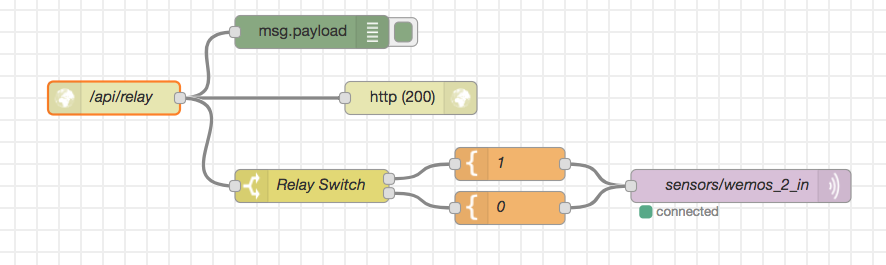
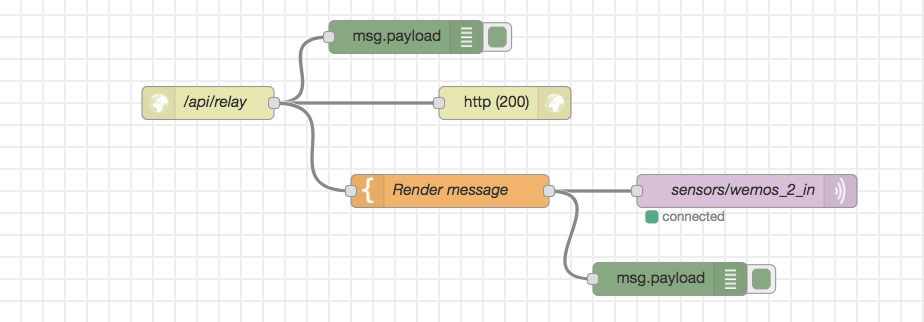
ADD flows details

Changed region(s): [[0.0305, 0.0302, 0.9752, 0.9358]]

diff --git a/BigeekieIOT.md b/BigeekieIOT.md
@@ -42,29 +42,19 @@
 
 - Flows
 
-  - Escuchar MQTT:
-![FlowsEvol/Node-RED1.png](FlowsEvol/Node-RED1.png)
-  - Generar Dashboard:
-![FlowsEvol/Node-RED2.png](FlowsEvol/Node-RED2.png)
-  - Poner un botón en el dashboard:
-![FlowsEvol/Node-RED3.png](FlowsEvol/Node-RED3.png)
-  - Capturar medidas de los sensores y guardarlas en InfluxDb:
-![FlowsEvol/Node-RED4.png](FlowsEvol/Node-RED4.png)
-  - Averiguar el chatId de tu conversación con el bot de telegram:
-![FlowsEvol/Node-RED6.png](FlowsEvol/Node-RED6.png)
-  - Configuración del bot de telegram:
-![FlowsEvol/Node-RED7.png](FlowsEvol/Node-RED7.png)
-  - Preguntar al bot por las últimas medidas:
-![FlowsEvol/Node-RED8.png](FlowsEvol/Node-RED8.png)
-  - Enlazar el botón del dashboard con el bot:
-![FlowsEvol/Node-RED9.png](FlowsEvol/Node-RED9.png)
-  - Añadir botón de AWS IoT:
-![FlowsEvol/Node-RED10.png](FlowsEvol/Node-RED10.png)
-  - Activar y desactivar la TupperLamp:
-![FlowsEvol/Node-RED11.png](FlowsEvol/Node-RED11.png)
-  - Activar relé en base a alarmas de Kapacitor:
-![FlowsEvol/Node-RED12.png](FlowsEvol/Node-RED12.png)
-  - Enviar notificación del cambio a Telegram:
+  - [Escuchar MQTT](Flows/Flow1.md)
+  - [Generar Dashboard](Flows/Flow2.md)
+  - [Poner un botón en el dashboard](Flows/Flow3.md)
+  - [Capturar medidas de los sensores y guardarlas en InfluxDb](Flows/Flow4.md)
+  - [Averiguar el chatId de tu conversación con el bot de telegram](Flows/Flow5.md)
+  - [Configuración del bot de telegram](Flows/Flow6.md)
+  - [Preguntar al bot por las últimas medidas](Flows/Flow7.md)
+  - [Enlazar el botón del dashboard con el bot](Flows/Flow8.md)
+  - [Añadir botón de AWS IoT](Flows/Flow9.md)
+  - [Activar y desactivar la TupperLamp](Flows/Flow10.md)
+  - [Activar relé en base a alarmas de Kapacitor](Flows/Flow11.md)
+  - [Enviar notificación del cambio a Telegram](Flows/Flow12.md)
+
 ![FlowsEvol/Node-RED12.png](FlowsEvol/Node-RED12.png)
 
 
@@ -78,17 +68,17 @@
 - Ejemplo alertas Kapacitor:
   - Temp alert:
     - Threshold
-    - Seleccionar base de datos y medida
+    - Seleccionar base de datos y medida, 0 functions
     - temp, less than 16
     - add handler: Telegram con bot token y chatId
     - Message: {{ if eq .Level "OK" }}Problema de temperatura arreglado 😀.{{ else }}La temperatura ha bajado de 16ºC 💩.{{ end }} Valor actual:  {{ index .Fields "value" }} ºC, fecha:  {{.Time}}
 
   - Relay alert:
     - Threshold
-    - Seleccionar base de datos y medida
+    - Seleccionar base de datos y medida, 0 functions
     - temp, less than 16
     - add handler: http://localhost:1880/api/relay
-    - Message: {{ if eq .Level "OK" }}OFF{{ else }}ON{{ end }}
+    - Message: {{ if eq .Level "OK" }}0{{ else }}1{{ end }}
 
 
 ## Recetas:

diff --git a/Flows/Flow7.md b/Flows/Flow7.md
@@ -1,0 +1,37 @@
+# Preguntar al bot por las últimas medidas
+
+## Diagrama de Bloques:
+![../FlowsEvol/Node-RED8.png](../FlowsEvol/Node-RED8.png)
+
+## Detalle de Bloques:
+
+- Bloque Save chatProps tipo Function:
+
+```js
+msg.chat = msg.payload;
+return msg;
+```
+
+- Bloque Get last temp and hum:
+
+```sql
+SELECT last("temp") AS "last_temp", last("hum") AS "last_hum" FROM "sensors"."autogen"."wemos_1" WHERE time > now() - 1h
+```
+
+- Bloque Recover chatProps tipo de function:
+
+```js
+msg.data = msg.payload[0];
+msg.payload.chatId = msg.chat.chatId;
+msg.payload.messageId = msg.chat.messageId;
+msg.payload.type = msg.chat.type;
+return msg;
+```
+
+- Bloque Message Render tipo Template:
+  - Set property msg.payload.content
+
+```
+La temperatura es de {{data.last_temp}} ºC y hay una humedad del {{data.last_hum}}% a las {{data.time}}
+```
+

diff --git a/Flows/Flow12.md b/Flows/Flow12.md
@@ -1,0 +1,37 @@
+# Enviar notificación del cambio a Telegram
+
+## Diagrama de Bloques:
+![../FlowsEvol/Node-RED12.png](../FlowsEvol/Node-RED12.png)
+
+## Detalle de Bloques:
+- Subscripción a los mensajes de los topics ```wemoslamp/out``` y ```sensors/wemos_2_out```
+- Lamp Switch
+  - msg.payload
+  - OK =off
+  - OK =rainbow
+  - stopping after first match
+
+- Relay Switch
+  - msg.payload
+  - 0
+  - 1
+  - stopping after first match
+
+- Función SetPayload:
+```js
+msg.payload = {
+    chatId: {{chatIdHardcoded}},
+    type:'message',
+    content:'Lampara apagada 🌑'}
+return msg;
+```
+
+o
+
+```js
+msg.payload = {
+    chatId: {{chatIdHardcoded}},
+    type:'message',
+    content:'Lampara encendida 🌕'}
+return msg;
+```

diff --git a/Flows/Flow9.md b/Flows/Flow9.md
@@ -1,0 +1,28 @@
+# Añadir botón de AWS IoT
+
+## Diagrama de Bloques:
+![../FlowsEvol/Node-RED10.png](../FlowsEvol/Node-RED10.png)
+
+## Detalle de Bloques:
+
+- pcap node, captura arp y mac
+  - interfaz (brigde100 mac en modo hostspot)
+  - Decoded pcap Object
+  - (arp and ether src {{dashbutton_mac}})
+  - Path: payload.shost
+
+- switch
+  - == {{dashbutton_mac}}
+  - stopping after first match
+- Función SetPayload:
+
+```js
+msg.payload = {
+    chatId: {{chatIdHardcoded}},
+    type:'message',
+    content:'Amazon IOT pulsado 😎'};
+return msg;
+```
+
+
+

diff --git a/Flows/Flow10.md b/Flows/Flow10.md
@@ -1,0 +1,25 @@
+# Activar y desactivar la TupperLamp
+
+## Diagrama de Bloques:
+![../FlowsEvol/Node-RED11.png](../FlowsEvol/Node-RED11.png)
+
+## Detalle de Bloques:
+- http request
+  - GET http://wemoslamp.local/get_switch
+- switch
+  - msg.payload
+  - 1
+  - 0
+  - stopping after first match
+- Función off:
+```js
+msg.payload = '=off';
+return msg;
+```
+- Función rainbow:
+```js
+msg.payload = '=rainbow';
+return msg;
+```
+- Enviar mensaje MQTT al topic ```wemoslamp/in```
+

diff --git a/Flows/Flow5.md b/Flows/Flow5.md
@@ -1,0 +1,16 @@
+# Averiguar el chatId de tu conversación con el bot de telegram
+
+## Diagrama de Bloques:
+![../FlowsEvol/Node-RED6.png](../FlowsEvol/Node-RED6.png)
+
+## Detalle de Bloques:
+- Bloque command Telegram:
+  - command: /chat_id
+
+- Bloque Telegram sender
+
+- Bloque SetContent tipo Template:
+
+```Este es tu chat ID: {{payload.chatId}} ```
+
+- Una vez obtenido el chatId, introducirlo en la conexión del telegrambot.

diff --git a/Flows/Flow11.md b/Flows/Flow11.md
@@ -1,0 +1,17 @@
+# Activar relé en base a alarmas de Kapacitor
+
+## Diagrama de Bloques:
+![../FlowsEvol/Node-RED5.png](../FlowsEvol/Node-RED5.png)
+
+
+## Detalle de Bloques:
+- http endpoint:
+  - POST /api/relay
+- http response. status code 200
+- Render message tipo template
+  - msg.payload
+```
+{{payload.message}}
+```
+- Enviar mensaje por MQTT al topic sensors/wemos_2_in
+

diff --git a/Flows/Flow4.md b/Flows/Flow4.md
@@ -1,0 +1,11 @@
+# Capturar medidas de los sensores y guardarlas en InfluxDb
+
+## Diagrama de Bloques:
+![../FlowsEvol/Node-RED4.png](../FlowsEvol/Node-RED4.png)
+
+## Detalle de Bloques:
+
+- Crear base de datos sensors en Chronograf
+- Conexión de influxDb a localhost y database sensors.
+- En el nodo de influxDb out poner como measurement cada uno de los dispositivos
+

diff --git a/Flows/Flow8.md b/Flows/Flow8.md
@@ -1,0 +1,17 @@
+# Enlazar el botón del dashboard con el bot
+
+## Diagrama de Bloques:
+![../FlowsEvol/Node-RED9.png](../FlowsEvol/Node-RED9.png)
+
+## Detalle de Bloques:
+
+- Bloque SetPayload tipo Function:
+
+```js
+msg.payload = {
+    chatId: {{chatIdHardcoded}},
+    type:'message',
+    content:'Botón web pulsado 🤖'};
+return msg;
+```
+

diff --git a/Recetas.md b/Recetas.md
@@ -8,6 +8,7 @@
 - AWS IOT Button: {{aws_mac}}
 - Topics:
   - sensors/wemos_1
+  - sensors/wemos_2
   - sensors/esp8266_1
   - sensors/esp32_1
 - MQTT QoS: 0 (https://www.hivemq.com/blog/mqtt-essentials-part-6-mqtt-quality-of-service-levels)

diff --git a/Flows/Flow2.md b/Flows/Flow2.md
@@ -1,0 +1,14 @@
+# Generar Dashboard
+
+## Diagrama de Bloques:
+![../FlowsEvol/Node-RED2.png](../FlowsEvol/Node-RED2.png)
+
+## Detalle de Bloques:
+
+- Bloque función GetTemp
+
+```js
+msg.payload = msg.payload.temp;
+return msg;
+```
+

diff --git a/Flows/Flow6.md b/Flows/Flow6.md
@@ -1,0 +1,5 @@
+# Configuración del bot de telegram
+
+## Detalle de Bloques:
+![../FlowsEvol/Node-RED7.png](../FlowsEvol/Node-RED7.png)
+
